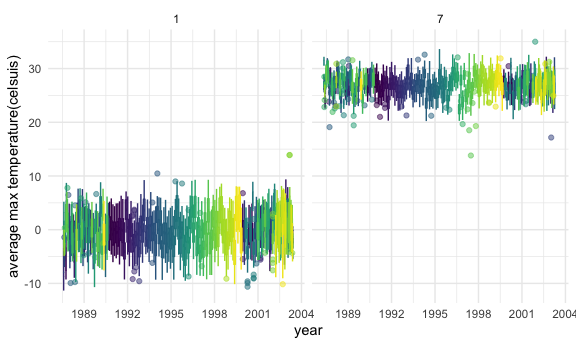
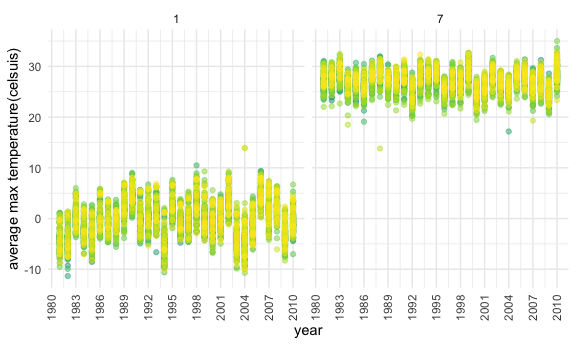
some adjustment

diff --git a/p8105_hw3_yz3955.md b/p8105_hw3_yz3955.md
@@ -279,23 +279,25 @@ ny_noaa_df %>%
     mean_tmax_degree = mean(tmax_degree, na.rm = TRUE)
   ) %>% 
   ggplot(aes(x = year, y = mean_tmax_degree, color = id)) +
-  geom_boxplot(alpha = .5, show.legend = FALSE) +
+  geom_point(alpha = .5, show.legend = FALSE) +
   facet_grid(. ~ month) +
   ylab("average max temperature(celsuis)") +
   scale_x_continuous(
-    breaks = c(1980, 1983, 1986,1989, 1992, 1995, 1998, 2001, 2004, 2007, 2010))
+    breaks = c(1980, 1983, 1986,1989, 1992, 1995, 1998, 2001, 2004, 2007, 2010)) +
+    theme(axis.text.x = element_text(angle = 90, vjust = 0.5, hjust = 1))
 ```
 
     ## `summarise()` regrouping output by 'id', 'year' (override with `.groups` argument)
 
-    ## Warning: Removed 5972 rows containing non-finite values (stat_boxplot).
+    ## Warning: Removed 5972 rows containing missing values (geom_point).
 
 <img src="p8105_hw3_yz3955_files/figure-gfm/unnamed-chunk-10-1.png" width="90%" />
 
 From this two-panel plot,it shows that the average maximum temperature
 of January is lower than July. The average maximum temperatures of
 January and July across years did not show absolutely increase. It seems
-to exist several outliers, which show on boxplot as a dot.
+to exist several outliers, which show as dots in the plot, such as
+Jan.2004, July. 2988.
 
 Make a two-panel plot showing (i) tmax vs tmin for the full dataset ;
 and (ii) make a plot showing the distribution of snowfall values greater
@@ -306,7 +308,8 @@ tmax_tmin_p =
   ny_noaa_df %>% 
   ggplot(aes(x = tmax_degree, y = tmin_degree)) +
   geom_hex()+
-  theme(legend.text = element_text(angle = 90, vjust = 0.5, hjust = 1)) 
+  theme(
+    legend.position = "right") 
 
 dis_snow_p =
   ny_noaa_df %>% 
